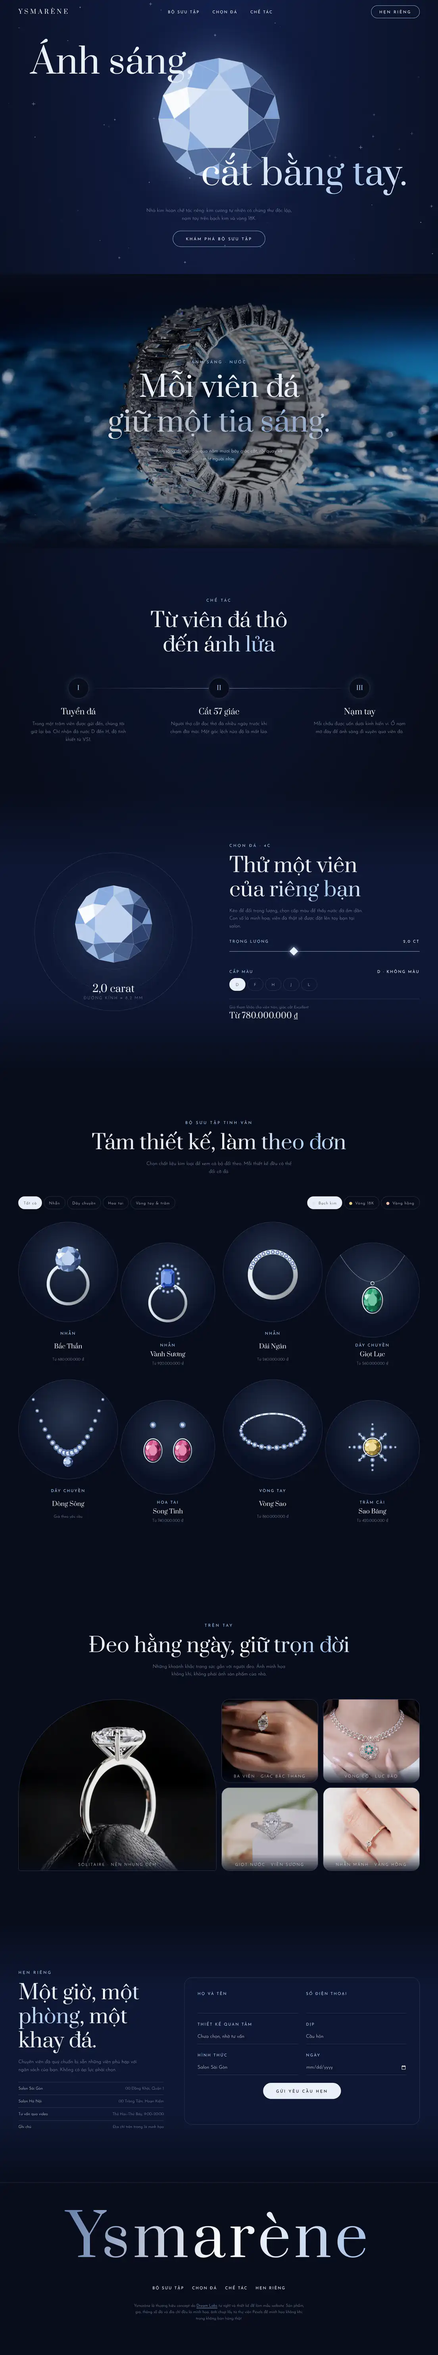
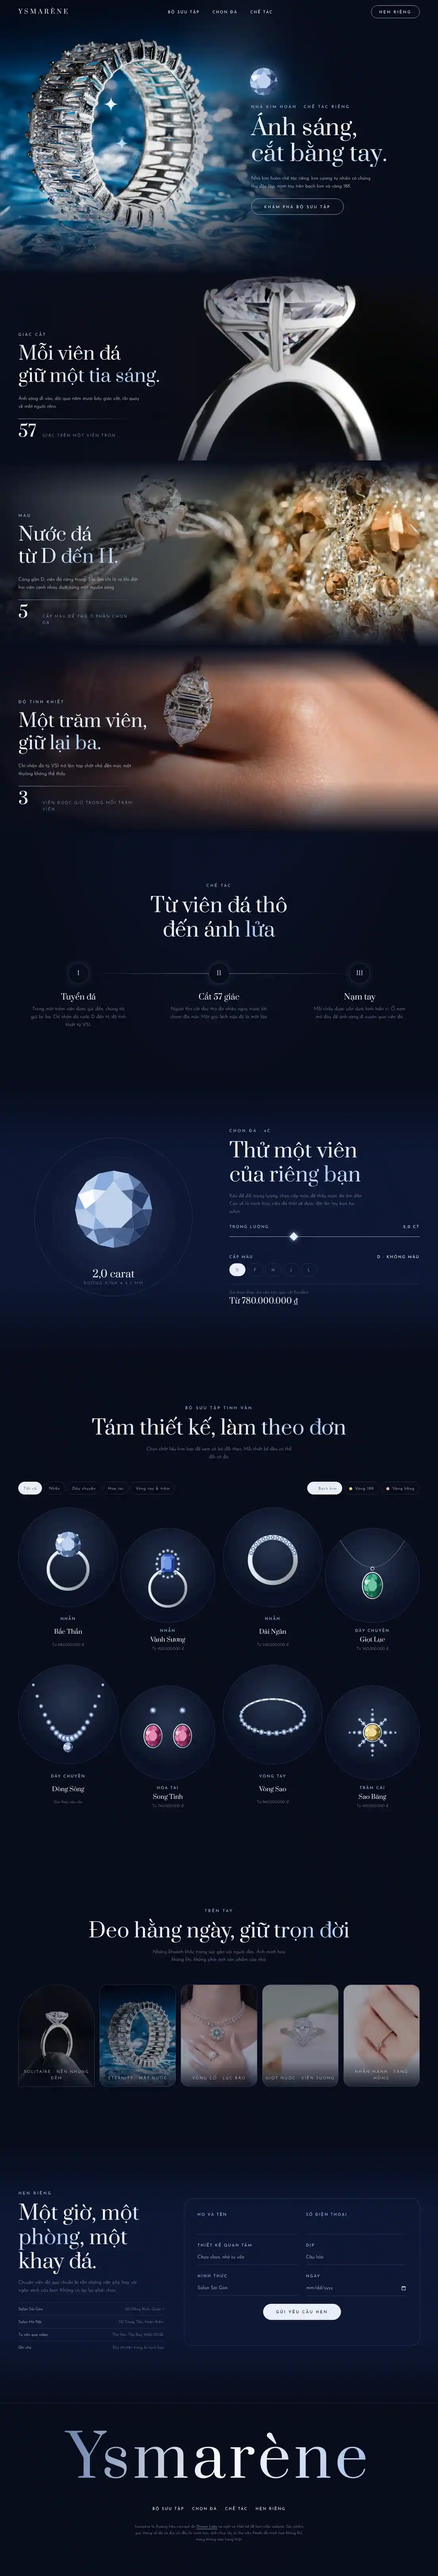
Demo Ysmarène: hero tia lấp lánh, cảnh ghim mặt nạ hình thoi, lookbook trôi có quán tính
Claude-Session: https://claude.ai/code/session_012QLWn7rvRysGvRwdv6upwG

diff --git a/demos/lux-ysmarene.html b/demos/lux-ysmarene.html
@@ -41,14 +41,6 @@ input,select,textarea{font:inherit;color:inherit;border-radius:0}
 .qv-x{position:absolute;z-index:3;width:42px;height:42px;display:grid;place-items:center;font-size:26px;line-height:1}
 .toast{position:fixed;left:50%;bottom:26px;z-index:130;transform:translate(-50%,26px);opacity:0;pointer-events:none;transition:opacity 424ms var(--ease),transform 424ms var(--ease);max-width:calc(100vw - 32px);padding:10px 26px;font-size:13px;text-align:center}
 .toast.on{opacity:1;transform:translate(-50%,0)}
-.ph{position:relative;overflow:hidden;margin:0;background:var(--bg2)}
-.ph img{display:block;width:100%;height:100%;object-fit:cover;transition:transform 1796ms var(--ease),filter 1110ms var(--ease)}
-.pe{position:relative;overflow:hidden}.pe>.ph{position:absolute;inset:0}.pe>.ph img{position:absolute;left:0;top:-9%;height:118%}
-.pg-g{display:grid;grid-template-columns:repeat(4,1fr);grid-auto-rows:clamp(160px,19vw,300px);gap:10px}
-.pg-g .ph:first-child{grid-column:span 2;grid-row:span 2}.pg-4 .ph:nth-child(2){grid-column:span 2}
-.pg-g .ph:hover img{transform:scale(1.05)}
-.pg-g figcaption{position:absolute;left:0;right:0;bottom:0;padding:26px 16px 10px;font-size:13px;line-height:1.38;pointer-events:none}
-@media(max-width:700px){.pg-g{grid-template-columns:1fr 1fr;grid-auto-rows:clamp(150px,52vw,260px);gap:6px}.pg-g .ph:first-child{grid-row:span 1}.pg-4 .ph:nth-child(2){grid-column:span 1}.pg-4 .ph:last-child{grid-column:span 2}}
 .back{position:fixed;left:16px;bottom:16px;z-index:60;min-height:42px;padding:0 16px;display:flex;align-items:center;font-size:13px;letter-spacing:.04em}
 .fm{min-height:26px;font-size:13px}
 @media (prefers-reduced-motion:reduce){.js [data-r],.js [data-r=lines] .ln>span{opacity:1!important;transform:none!important;clip-path:none!important;transition:none!important}*,*::before,*::after{animation-duration:.01ms!important;animation-delay:0s!important;animation-iteration-count:1!important;transition-duration:.01ms!important;transition-delay:0s!important;scroll-behavior:auto!important}}
@@ -84,25 +76,41 @@ h1,h2{font-family:var(--fd);line-height:1.2}h2{font-size:clamp(33px,4.6vw,68px)}
 @media(max-width:900px){.hd nav,.hd .bt{display:none}.mb{display:inline-flex}.lg{font-size:16px}}
 /* đá */
 .tw{animation:tw 4.2s ease-in-out infinite alternate}@keyframes tw{0%,62%{opacity:1}100%{opacity:.42}}
-.off .tw,.off .spin{animation-play-state:paused}
+.off .tw,.off .spin,.off .hk,.off .hs{animation-play-state:paused}
 /* hero */
-.hero{position:relative;min-height:100svh;display:grid;place-items:center;overflow:hidden;padding:94px 0 42px;text-align:center}
-.hero canvas{position:absolute;inset:0;width:100%;height:100%}
-.hc{position:relative;display:grid;justify-items:center;width:100%}
-.hero .h1{font-family:var(--fd);font-size:clamp(42px,8vw,128px);line-height:1.14;position:relative;z-index:2;width:100%;animation:up 2s .3s var(--ease) both;pointer-events:none;padding:0 max(16px,7vw)}
-.hero .h1.a{text-align:left}.hero .h1.b{text-align:right;animation-delay:.6s}.h1 i{font-style:normal;background:linear-gradient(100deg,#fff 0,var(--acc) 38%,#fff 62%,var(--acc) 100%) 0 0/200% 100%;-webkit-background-clip:text;background-clip:text;color:transparent;animation:shm 6.8s linear infinite}
+.hero{position:relative;min-height:100svh;display:grid;align-items:center;overflow:hidden;padding:94px 0 68px}
+.hb{position:absolute;inset:-3% auto -3% -24%;width:100%;will-change:transform}
+.hb>div,.hk{position:absolute;inset:0}
+.hk{transform-origin:50% 52%;animation:kb 26s ease-in-out infinite alternate}
+@keyframes kb{from{transform:scale(1.07)}to{transform:scale(1)}}
+.hk img{width:100%;height:100%;object-fit:cover}
+.hk canvas{position:absolute;inset:0;width:100%;height:100%}
+.hs{position:absolute;inset:0 -60%;background:linear-gradient(105deg,transparent 43%,rgba(190,225,255,.22) 50%,transparent 57%);mix-blend-mode:screen;animation:cs 11s ease-in-out infinite;pointer-events:none}
+@keyframes cs{0%{transform:translateX(-45%)}62%,100%{transform:translateX(45%)}}
+.hero::after{content:"";position:absolute;inset:0;background:linear-gradient(90deg,transparent 40%,rgba(8,13,28,.92) 68%,var(--bg) 76%),linear-gradient(180deg,rgba(8,13,28,.72),transparent 24%,transparent 70%,var(--bg));pointer-events:none}
+.hc{position:relative;z-index:2;display:grid;grid-template-columns:1fr min(42%,560px);justify-items:start;text-align:left}
+.hc>*{grid-column:2}
+.hero .h1{font-family:var(--fd);font-size:clamp(42px,5.2vw,88px);line-height:1.14;white-space:nowrap;pointer-events:none}
+.h1 i{font-style:normal;background:linear-gradient(100deg,#fff 0,var(--acc) 38%,#fff 62%,var(--acc) 100%) 0 0/200% 100%;-webkit-background-clip:text;background-clip:text;color:transparent;animation:shm 6.8s linear infinite}
+.h1 .c{display:inline-block;animation:ch 1.5s calc(.5s + var(--c)*52ms) var(--ease) both}
+.h1.sp i{background:none;animation:none}.h1 i .c{background:linear-gradient(120deg,#fff,var(--acc));-webkit-background-clip:text;background-clip:text}
+@keyframes ch{from{opacity:0;transform:translateY(.46em) rotate(5deg)}to{opacity:1;transform:none}}
 @keyframes up{from{opacity:0;transform:translateY(26px)}to{opacity:1;transform:none}}
-.hgem{width:min(46vh,424px,72vw);aspect-ratio:1;margin:-10vh 0;animation:gi 2.9s var(--ease) both;filter:drop-shadow(0 0 68px rgba(134,169,220,.5))}
+.hgem{width:94px;aspect-ratio:1;margin:0 0 26px -6px;animation:gi 2.9s var(--ease) both;filter:drop-shadow(0 0 26px rgba(134,169,220,.6))}
 @keyframes gi{from{opacity:0;transform:scale(.62) rotate(-42deg)}to{opacity:1;transform:none}}
 .hgem svg{width:100%;height:100%;overflow:visible;animation:fl 6.8s ease-in-out infinite alternate}
-@keyframes fl{to{transform:translateY(-16px)}}
+@keyframes fl{to{transform:translateY(-10px)}}
 .spin{transform-box:fill-box;transform-origin:center;animation:sp 110s linear infinite}@keyframes sp{to{transform:rotate(360deg)}}
-.hf{display:grid;gap:26px;justify-items:center;margin-top:42px;animation:up 2s .9s var(--ease) both;padding:0 16px}
-.hf p{color:var(--mut);max-width:30em}
-@media(max-width:700px){.hgem{margin:-26px 0}}
+.hero .k{margin-bottom:16px;animation:up 2s .3s var(--ease) both}
+.hf{display:grid;gap:26px;justify-items:start;margin-top:26px;animation:up 2s 1.5s var(--ease) both}
+.hf p{color:var(--ink);max-width:26em}
+@media(max-width:900px){.hero{align-items:end;padding-bottom:94px}.hb{inset:0 auto auto -3%;width:106%;height:66svh}
+.hero::after{background:linear-gradient(180deg,rgba(8,13,28,.6),transparent 16%,transparent 34%,rgba(8,13,28,.86) 56%,var(--bg) 66%)}
+.hc{grid-template-columns:1fr;justify-items:center;text-align:center}.hc>*{grid-column:1}.hgem{width:56px;margin:0 0 10px}.hf{justify-items:center}}
 /* câu chuyện */
 .st3{display:grid;gap:42px;position:relative}
 @media(min-width:900px){.st3{grid-template-columns:repeat(3,1fr);gap:68px}.st3::before{content:"";position:absolute;left:16.6%;right:16.6%;top:34px;height:1px;background:linear-gradient(90deg,transparent,var(--acc),transparent)}}
+.js .st3[data-r]{opacity:1;transform:none}.js .st3::before{transform:scaleX(0);transition:transform 2.2s .2s var(--ease)}.js .st3.in::before{transform:none}
 .st3 li{text-align:center;display:grid;gap:10px;justify-items:center;align-content:start}
 .st3 b{width:68px;height:68px;border-radius:50%;border:1px solid var(--line);display:grid;place-items:center;font:400 20px var(--fd);color:var(--acc);background:var(--bg);position:relative;margin-bottom:16px;box-shadow:0 0 26px rgba(169,200,240,.16)}
 .st3 h3{font:400 26px var(--fd)}.st3 p{color:var(--mut);max-width:20em}
@@ -173,22 +181,45 @@ footer{padding:68px 0 110px;text-align:center;border-top:1px solid var(--line);o
 .toast{background:var(--ink);color:var(--bg);border-radius:99px}
 .back{border-radius:99px;border:1px solid var(--line);background:rgba(8,13,28,.72);backdrop-filter:blur(10px);color:var(--acc)}
 /*PH-CSS*/
-.pe{height:clamp(520px,100svh,960px);display:grid;align-items:center;text-align:center}
-.pe>.ph{background:var(--bg)}
-.pe>.ph img{object-position:50% 50%;filter:saturate(.8) hue-rotate(6deg) brightness(.82) contrast(1.08)}
-.pe::after{content:"";position:absolute;inset:0;background:radial-gradient(ellipse 62% 54% at 50% 50%,rgba(8,13,28,.62),transparent 80%),linear-gradient(180deg,var(--bg) 0,transparent 26%,transparent 74%,var(--bg) 100%);pointer-events:none}
-.pe-t{position:relative;z-index:2;display:grid;justify-items:center}
-.pe-t h2{font-size:clamp(42px,6.6vw,96px);text-shadow:0 0 42px rgba(8,13,28,.8)}
-.pe-c{color:var(--ink);max-width:28em;margin-top:26px;text-shadow:0 0 16px rgba(8,13,28,.9)}
-.pg-g{gap:16px}
-.pg-g .ph{border-radius:26px;border:1px solid var(--line);transition:box-shadow 1110ms var(--ease)}
-.pg-g .ph:first-child{border-radius:999px 999px 26px 26px}
-.pg-g img{filter:saturate(.84) brightness(.9) contrast(1.04)}
-.pg-g .ph:hover{box-shadow:0 0 68px rgba(134,169,220,.3)}
-.pg-g .ph:hover img{filter:none}
-.pg-g .ph:nth-child(3) img{object-position:50% 30%}.pg-g .ph:nth-child(5) img{object-position:50% 46%}
-.pg-g figcaption{text-align:center;font-size:13px;letter-spacing:.2em;text-transform:uppercase;color:var(--ink);background:linear-gradient(0deg,rgba(8,13,28,.86),transparent)}
-@media(max-width:700px){.pg-g figcaption{font-size:10px;letter-spacing:.12em;padding:26px 10px 10px}.pe::after{background:linear-gradient(180deg,var(--bg) 0,rgba(8,13,28,.5) 26%,rgba(8,13,28,.72) 50%,rgba(8,13,28,.5) 74%,var(--bg) 100%)}}
+.gx-c{position:relative;min-height:68svh;display:grid;align-items:end;overflow:hidden}
+.gx-c figure{position:absolute;inset:0;margin:0;overflow:hidden}
+.gx-c img{width:100%;height:100%;object-fit:cover;object-position:var(--o,50% 50%)}
+.gx-c figure::after{content:"";position:absolute;inset:0;background:linear-gradient(90deg,rgba(8,13,28,.9),rgba(8,13,28,.5) 34%,transparent 62%),linear-gradient(180deg,var(--bg),transparent 20%,transparent 72%,var(--bg))}
+.gx-t{position:relative;z-index:2;padding-top:110px;padding-bottom:68px}
+.gx-t h2{font-size:clamp(33px,4.2vw,66px);margin:16px 0 26px}
+.gx-t>p:not(.k){max-width:25em}
+.gx-n{display:flex;align-items:baseline;gap:16px;margin-top:26px;padding-top:16px;position:relative;font-size:13px;letter-spacing:.2em;text-transform:uppercase;color:var(--acc);max-width:30em!important}
+.gx-n::before{content:"";position:absolute;left:0;top:0;width:100%;height:1px;background:linear-gradient(90deg,var(--acc),transparent);transform-origin:0 0}
+.gx-n b{font:400 53px/1 var(--fd);color:var(--ink);letter-spacing:0;min-width:1.2em}
+.gx-e,.gx-k{display:none}
+.mo .gx{height:260svh}
+.mo .gx-s{position:sticky;top:0;height:100svh;overflow:hidden}
+.mo .gx-c{position:absolute;inset:0;min-height:0}
+.mo .gx-c figure,.mo .gx-c img{will-change:transform,clip-path}
+.mo .gx-c+.gx-c figure{clip-path:polygon(50% 50%,50% 50%,50% 50%,50% 50%)}
+.mo .gx-t{opacity:0;transform:translateY(26px);pointer-events:none;transition:opacity .7s var(--ease),transform .9s var(--ease)}
+.mo .on .gx-t{opacity:1;transform:none;pointer-events:auto;transition:opacity 1.2s .3s var(--ease),transform 1.4s .3s var(--ease)}
+.mo .gx-n::before{transform:scaleX(0);transition:transform 1.8s .5s var(--ease)}.mo .on .gx-n::before{transform:none}
+.mo .gx-e{display:block;position:absolute;inset:0;width:100%;height:100%;z-index:1;opacity:0;pointer-events:none;overflow:visible}
+.mo .gx-k{display:block;position:absolute;z-index:2;right:max(16px,4.2vw);bottom:26px;font-size:13px;letter-spacing:.2em;text-transform:uppercase;color:var(--ink);min-height:1.6em}
+.mo .gx-k::after{content:"";display:inline-block;width:1px;height:1em;margin-left:6px;vertical-align:-2px;background:var(--acc);animation:tw .6s steps(2) infinite alternate}
+.lb{overflow:hidden}
+.lb-t{position:relative;display:flex;gap:16px;overflow-x:auto;scroll-snap-type:x mandatory;padding:0 max(16px,4.2vw) 16px;scrollbar-width:none}
+.lb-t::-webkit-scrollbar{display:none}
+.lc{position:relative;flex:0 0 74vw;aspect-ratio:3/4;margin:0;border-radius:26px;overflow:hidden;border:1px solid var(--line);scroll-snap-align:center;background:var(--bg2)}
+.lc:first-child{border-radius:999px 999px 26px 26px}
+.lc img{width:100%;height:100%;object-fit:cover;-webkit-user-drag:none;transform:scale(1.02);transition:transform 1.8s var(--ease)}
+.lc::before{content:"";position:absolute;inset:0;z-index:1;background:rgba(8,13,28,.4);transition:opacity 1.1s var(--ease)}
+.lc::after{content:"";position:absolute;inset:-20% -70%;z-index:1;background:linear-gradient(105deg,transparent 45%,rgba(255,255,255,.3) 50%,transparent 55%);transform:translateX(-62%);transition:transform 1.5s var(--ease);pointer-events:none}
+.lc:hover::before,.lc.on::before{opacity:0}.lc:hover::after,.lc.on::after{transform:translateX(62%)}.lc:hover img,.lc.on img{transform:scale(1.08)}
+.lc figcaption{position:absolute;z-index:2;left:0;right:0;bottom:0;padding:42px 10px 16px;text-align:center;font-size:13px;letter-spacing:.2em;text-transform:uppercase;background:linear-gradient(0deg,rgba(8,13,28,.86),transparent);pointer-events:none}
+.lb-h{display:none}
+@media(min-width:900px){.lb-t{display:grid;grid-template-columns:repeat(5,1fr);overflow:visible}}
+@media(max-width:899px){.lb-h{display:block;text-align:center;font-size:13px;letter-spacing:.2em;text-transform:uppercase;color:var(--mut);margin-top:10px}}
+@media(max-width:899px){.gx-c figure{bottom:38%}.gx-c figure::after{background:linear-gradient(180deg,var(--bg),transparent 18%,transparent 52%,var(--bg) 97%)}.gx-e{height:62%!important}html:not(.mo) .gx-c{display:block;min-height:0}html:not(.mo) .gx-c figure{position:relative;inset:auto;height:52svh}html:not(.mo) .gx-t{padding-top:16px;padding-bottom:42px}.gx-t{padding-bottom:78px}.gx-t h2{margin:10px 0 16px}.gx-n{margin-top:16px}.mo .gx-k{top:78px;bottom:auto;left:16px;right:auto;letter-spacing:.1em;white-space:nowrap}}
+@media(min-width:900px){.gx-c:first-child figure{transform-origin:0 34%;transform:scale(1.26)}}
+.dg .lb-t{display:flex;width:max-content;gap:3vw;align-items:center;padding-block:42px 68px;cursor:grab;touch-action:pan-y;user-select:none;-webkit-user-select:none;will-change:transform}
+.dg .lc{flex:0 0 calc(var(--w)*1vw);aspect-ratio:var(--a);will-change:transform}
 /*/PH-CSS*/
 </style>
 </head>
@@ -205,11 +236,13 @@ footer{padding:68px 0 110px;text-align:center;border-top:1px solid var(--line);o
 
 <main>
 <section class="hero" id="top">
- <canvas id="sky" aria-hidden="true"></canvas>
- <div class="hc">
+ <div class="hb" id="hb"><div data-px=".16"><div class="hk"><img src="../img/photo/trang-suc-30852409-xl.webp" width="2400" height="1600" alt="Chiếc nhẫn eternity nạm đá baguette đứng trên mặt nước gợn sóng dưới ánh sáng xanh lam" decoding="async" fetchpriority="high"><canvas id="sky" aria-hidden="true"></canvas></div></div></div>
+ <i class="hs" aria-hidden="true"></i>
+ <div class="hc w">
+  <div class="hgem" id="hgem"></div>
+  <p class="k">Nhà kim hoàn · Chế tác riêng</p>
   <h1 class="vh">Ánh sáng, cắt bằng tay.</h1>
   <p class="h1 a" aria-hidden="true">Ánh sáng,</p>
-  <div class="hgem" id="hgem" data-px=".06"></div>
   <p class="h1 b" aria-hidden="true"><i>cắt bằng tay.</i></p>
   <div class="hf"><p>Nhà kim hoàn chế tác riêng: kim cương tự nhiên có chứng thư độc lập, nạm tay trên bạch kim và vàng 18K.</p><a class="bt" href="#bo-suu-tap">Khám phá bộ sưu tập</a></div>
  </div>
@@ -217,12 +250,17 @@ footer{padding:68px 0 110px;text-align:center;border-top:1px solid var(--line);o
 
 
 <!--PH-ED-->
-<section class="pe" aria-label="Ảnh không khí của nhà Ysmarène"><figure class="ph" data-r="mask"><img src="../img/photo/trang-suc-30852409.webp" width="1600" height="1067" alt="Chiếc nhẫn eternity nạm đá baguette đứng trên mặt nước gợn sóng dưới ánh sáng xanh lam" decoding="async" loading="lazy" data-px=".12"></figure><div class="pe-t w"><p class="k" data-r>Ánh sáng · Nước</p><h2 data-r style="margin-top:16px">Mỗi viên đá<br><i>giữ một tia sáng.</i></h2><p class="pe-c" data-r>Ánh sáng đi vào, dội qua năm mươi bảy giác cắt, rồi quay về mắt người nhìn.</p></div></section>
+<section class="gx" id="giac" aria-label="Ánh sáng và giác cắt"><div class="gx-s">
+<article class="gx-c" data-cap="01 / 03 · Solitaire trên nền nhung đêm"><figure><img src="../img/photo/trang-suc-9953654.webp" width="1280" height="1600" alt="Nhẫn solitaire kim cương bốn chấu cài trên nếp da đen, nền tối" decoding="async" loading="lazy" style="--o:50% 36%"></figure><div class="gx-t w"><p class="k">Giác cắt</p><h2>Mỗi viên đá<br><i>giữ một tia sáng.</i></h2><p>Ánh sáng đi vào, dội qua năm mươi bảy giác cắt, rồi quay về mắt người nhìn.</p><p class="gx-n"><b data-n="57">57</b>giác trên một viên tròn</p></div></article>
+<article class="gx-c" data-cap="02 / 03 · Nhẫn xoắn giữa pha lê hổ phách"><figure><img src="../img/photo/trang-suc-9420694.webp" width="1600" height="1067" alt="Nhẫn kim cương thân xoắn nằm giữa những hạt pha lê màu hổ phách" decoding="async" loading="lazy" style="--o:42% 50%"></figure><div class="gx-t w"><p class="k">Màu</p><h2>Nước đá<br><i>từ D đến H.</i></h2><p>Càng gần D, viên đá càng trong. Sắc ấm chỉ lộ ra khi đặt hai viên cạnh nhau dưới cùng một nguồn sáng.</p><p class="gx-n"><b data-n="5">5</b>cấp màu để thử ở phần Chọn đá</p></div></article>
+<article class="gx-c" data-cap="03 / 03 · Ba viên giác bậc thang trên tay"><figure><img src="../img/photo/trang-suc-32652451.webp" width="1600" height="1600" alt="Bàn tay đeo nhẫn kim cương giác baguette trên nền tối" decoding="async" loading="lazy" style="--o:60% 30%"></figure><div class="gx-t w"><p class="k">Độ tinh khiết</p><h2>Một trăm viên,<br><i>giữ lại ba.</i></h2><p>Chỉ nhận đá từ VS1 trở lên: tạp chất nhỏ đến mức mắt thường không thể thấy.</p><p class="gx-n"><b data-n="3">3</b>viên được giữ trong mỗi trăm viên</p></div></article>
+<svg class="gx-e" viewBox="0 0 100 100" preserveAspectRatio="none" aria-hidden="true"><path d="M50 0L100 50 50 100 0 50z" fill="none" stroke="#cfe1fb" vector-effect="non-scaling-stroke"/></svg><p class="gx-k" id="fcc" aria-hidden="true"></p>
+</div></section>
 <!--/PH-ED-->
 
 <section class="sec" id="che-tac"><div class="w">
  <div class="hdg"><p class="k" data-r>Chế tác</p><h2 data-r>Từ viên đá thô<br>đến <i>ánh lửa</i></h2></div>
- <ol class="st3">
+ <ol class="st3" data-r>
   <li data-r><b>I</b><h3>Tuyển đá</h3><p>Trong một trăm viên được gửi đến, chúng tôi giữ lại ba. Chỉ nhận đá nước D đến H, độ tinh khiết từ VS1.</p></li>
   <li data-r style="--i:1"><b>II</b><h3>Cắt 57 giác</h3><p>Người thợ cắt đọc thớ đá nhiều ngày trước khi chạm đĩa mài. Một góc lệch nửa độ là mất lửa.</p></li>
   <li data-r style="--i:2"><b>III</b><h3>Nạm tay</h3><p>Mỗi chấu được uốn dưới kính hiển vi. Ổ nạm mở đáy để ánh sáng đi xuyên qua viên đá.</p></li>
@@ -248,7 +286,7 @@ footer{padding:68px 0 110px;text-align:center;border-top:1px solid var(--line);o
 
 
 <!--PH-LB-->
-<section class="sec pg" id="tren-tay"><div class="w"><div class="hdg"><p class="k" data-r>Trên tay</p><h2 data-r>Đeo hằng ngày, <i>giữ trọn đời</i></h2><p class="t" data-r>Những khoảnh khắc trang sức gắn với người đeo. Ảnh minh họa không khí, không phải ảnh sản phẩm của nhà.</p></div><div class="pg-g pg-5"><figure class="ph" data-r="mask" style="--i:0"><img src="../img/photo/trang-suc-9953654.webp" width="1280" height="1600" alt="Nhẫn solitaire kim cương bốn chấu cài trên nếp da đen, nền tối" decoding="async" loading="lazy"><figcaption>Solitaire · Nền nhung đêm</figcaption></figure><figure class="ph" data-r="mask" style="--i:1"><img src="../img/photo/trang-suc-32652451.webp" width="1600" height="1600" alt="Bàn tay đeo nhẫn kim cương giác baguette trên nền tối" decoding="async" loading="lazy"><figcaption>Ba viên · Giác bậc thang</figcaption></figure><figure class="ph" data-r="mask" style="--i:2"><img src="../img/photo/trang-suc-19646999.webp" width="1067" height="1600" alt="Người mẫu đeo vòng cổ kim cương có mặt đá xanh lục và nhẫn xoắn" decoding="async" loading="lazy"><figcaption>Vòng cổ · Lục bảo</figcaption></figure><figure class="ph" data-r="mask" style="--i:3"><img src="../img/photo/trang-suc-16438530.webp" width="1600" height="1600" alt="Nhẫn kim cương giọt nước viền đá tấm hình chữ V đặt trên khối trắng" decoding="async" loading="lazy"><figcaption>Giọt nước · Viền sương</figcaption></figure><figure class="ph" data-r="mask" style="--i:4"><img src="../img/photo/trang-suc-36119440.webp" width="900" height="1600" alt="Bàn tay đeo chiếc nhẫn vàng hồng mảnh với một viên kim cương nhỏ" decoding="async" loading="lazy"><figcaption>Nhẫn mảnh · Vàng hồng</figcaption></figure></div></div></section>
+<section class="sec lb" id="tren-tay"><div class="w"><div class="hdg"><p class="k" data-r>Trên tay</p><h2 data-r>Đeo hằng ngày, <i>giữ trọn đời</i></h2><p class="t" data-r>Những khoảnh khắc trang sức gắn với người đeo. Ảnh minh họa không khí, không phải ảnh sản phẩm của nhà.</p></div></div><div class="lb-t" data-c="Kéo"><figure class="lc" style="--w:25;--a:4/5"><img src="../img/photo/trang-suc-9953654.webp" width="1280" height="1600" alt="Nhẫn solitaire kim cương bốn chấu cài trên nếp da đen, nền tối" decoding="async" loading="lazy" draggable="false"><figcaption>Solitaire · Nền nhung đêm</figcaption></figure><figure class="lc" style="--w:35;--a:3/2"><img src="../img/photo/trang-suc-30852409.webp" width="1600" height="1067" alt="Chiếc nhẫn eternity nạm đá baguette đứng trên mặt nước xanh" decoding="async" loading="lazy" draggable="false"><figcaption>Eternity · Mặt nước</figcaption></figure><figure class="lc" style="--w:22;--a:2/3"><img src="../img/photo/trang-suc-19646999.webp" width="1067" height="1600" alt="Người mẫu đeo vòng cổ kim cương có mặt đá xanh lục và nhẫn xoắn" decoding="async" loading="lazy" draggable="false"><figcaption>Vòng cổ · Lục bảo</figcaption></figure><figure class="lc" style="--w:26;--a:1"><img src="../img/photo/trang-suc-16438530.webp" width="1600" height="1600" alt="Nhẫn kim cương giọt nước viền đá tấm hình chữ V đặt trên khối trắng" decoding="async" loading="lazy" draggable="false"><figcaption>Giọt nước · Viền sương</figcaption></figure><figure class="lc" style="--w:19;--a:9/16"><img src="../img/photo/trang-suc-36119440.webp" width="900" height="1600" alt="Bàn tay đeo chiếc nhẫn vàng hồng mảnh với một viên kim cương nhỏ" decoding="async" loading="lazy" draggable="false"><figcaption>Nhẫn mảnh · Vàng hồng</figcaption></figure></div><p class="lb-h" aria-hidden="true">Vuốt ngang để xem</p></section>
 <!--/PH-LB-->
 
 <section class="sec c4" id="hen"><div class="w bk">
@@ -351,11 +389,40 @@ const J=[
  {n:'Sao Băng',t:'Trâm cài',g:'Vòng tay & trâm',p:42e7,c:['1,6 ct','Fancy yellow','VS1','Brilliant'],d:'Trâm cài tám tia quanh một viên kim cương vàng. Cài ve áo hoặc búi tóc.'}];
 /* hero */
 const hg=$('#hgem');hg.innerHTML=`<svg viewBox="-104 -104 208 208" role="img" aria-label="Viên kim cương giác tròn nhìn từ trên xuống"><g class="spin"><circle r="102" fill="none"/>${gem('br','d',100,1)}</g></svg>`;
-const sky=$('#sky'),hero=$('.hero');let sx,pts=[],run=0;
-const fit=()=>{const d=Math.min(devicePixelRatio||1,1.5);sky.width=hero.clientWidth*d;sky.height=hero.clientHeight*d;sx=sky.getContext('2d');sx.setTransform(d,0,0,d,0,0);pts=Array.from({length:Math.round(hero.clientWidth/22)},(_,i)=>({x:rnd(i,1)*hero.clientWidth,y:rnd(i,2)*hero.clientHeight,r:1+rnd(i,3)*4.2,p:rnd(i,4)*6.28,s:.4+rnd(i,5)*1.2}))};
-const draw=t=>{sx.clearRect(0,0,sky.width,sky.height);pts.forEach(p=>{const a=.5+.5*Math.sin(p.p+t*.001*p.s);sx.globalAlpha=a*.9;sx.strokeStyle='#cfe1fb';sx.lineWidth=.8;const r=p.r*(.6+a*.6);sx.beginPath();sx.moveTo(p.x-r,p.y);sx.lineTo(p.x+r,p.y);sx.moveTo(p.x,p.y-r);sx.lineTo(p.x,p.y+r);sx.stroke()});if(run)requestAnimationFrame(draw)};
-fit();draw(0);addEventListener('resize',()=>{fit();run||draw(0)});
+$$('.hero .h1').forEach((p,k)=>{let n=k*9;const w=e=>[...e.childNodes].forEach(c=>{if(c.nodeType===3){const f=D.createDocumentFragment();[...c.data].forEach(ch=>{if(ch===' ')return f.append(' ');const s=D.createElement('span');s.className='c';s.style.setProperty('--c',n++);s.textContent=ch;f.append(s)});c.replaceWith(f)}else w(c)});w(p);p.classList.add('sp')});
+const sky=$('#sky'),hero=$('.hero'),hb=$('#hb'),hc=$('.hc');let sx,W,Hc,pts=[],run=0,mx=0,my=0,ax=0,ay=0;
+const fit=()=>{const d=Math.min(devicePixelRatio||1,1.5);W=sky.clientWidth;Hc=sky.clientHeight;sky.width=W*d;sky.height=Hc*d;sx=sky.getContext('2d');sx.setTransform(d,0,0,d,0,0);
+ const s=Math.max(W/3,Hc/2),ox=(W-3*s)/2,oy=(Hc-2*s)/2,n=W<700?9:16;
+ pts=Array.from({length:n},(_,i)=>{const g=i<n*.6;return{x:ox+3*s*(g?.33+rnd(i,1)*.36:rnd(i,1)),y:oy+2*s*(g?.2+rnd(i,2)*.56:.5+rnd(i,2)*.42),r:(g?9:5)+rnd(i,3)*(g?17:8),p:rnd(i,4)*6.28,s:.5+rnd(i,5)*.9}})};
+const draw=t=>{sx.clearRect(0,0,W,Hc);sx.fillStyle='#eef5ff';pts.forEach(p=>{const a=Math.pow(.5+.5*Math.sin(p.p+t*.0011*p.s),6);if(a<.02)return;const r=p.r*(.5+a*.5),k=r*.08,x=p.x,y=p.y;sx.globalAlpha=a;sx.beginPath();sx.moveTo(x-r,y);sx.quadraticCurveTo(x-k,y-k,x,y-r);sx.quadraticCurveTo(x+k,y-k,x+r,y);sx.quadraticCurveTo(x+k,y+k,x,y+r);sx.quadraticCurveTo(x-k,y+k,x-r,y);sx.fill();sx.globalAlpha=a*.3;sx.beginPath();sx.arc(x,y,r*.3,0,7);sx.fill()});
+ if(run){ax+=(mx-ax)*.05;ay+=(my-ay)*.05;hb.style.transform=`translate3d(${(-ax*20).toFixed(1)}px,${(-ay*12).toFixed(1)}px,0)`;hc.style.transform=`translate3d(${(ax*9).toFixed(1)}px,${(ay*6).toFixed(1)}px,0)`;requestAnimationFrame(draw)}};
+fit();draw(900);addEventListener('resize',()=>{fit();run||draw(900)});
+FINE&&hero.addEventListener('mousemove',e=>{mx=e.clientX/innerWidth*2-1;my=e.clientY/innerHeight*2-1},{passive:true});
 if('IntersectionObserver' in window)new IntersectionObserver(e=>{const v=e[0].isIntersecting;hero.classList.toggle('off',!v);if(v&&!run&&!RM){run=1;requestAnimationFrame(draw)}else if(!v)run=0}).observe(hero);
+/* cảnh ghim giác cắt */
+const fc=$('#giac'),IO=(el,f)=>new IntersectionObserver(e=>f(e[0].isIntersecting)).observe(el),cl=v=>Math.max(0,Math.min(1,v));
+if(fc&&!RM&&'IntersectionObserver' in window){H.classList.add('mo');const cs=$$('.gx-c',fc),fg=cs.map(c=>$('figure',c)),im=cs.map(c=>$('img',c)),ed=$('.gx-e',fc),cap=$('#fcc');let ci=-1,vis=0,pp=-1,ty;
+ const set=i=>{if(i===ci)return;ci=i;cs.forEach((c,k)=>c.classList.toggle('on',k===i));if(i<0)return;
+  const b=$('[data-n]',cs[i]);if(!b.d){b.d=1;const n=+b.dataset.n,t0=performance.now();(function f(t){const q=cl((t-t0)/1600);b.textContent=Math.round(n*(1-Math.pow(1-q,3)));q<1&&requestAnimationFrame(f)})(t0)}
+  const s=cs[i].dataset.cap;let k=0;clearInterval(ty);ty=setInterval(()=>{cap.textContent=s.slice(0,++k);k>=s.length&&clearInterval(ty)},38)};
+ const tick=()=>{if(!vis)return;const r=fc.getBoundingClientRect(),vh=innerHeight,t=cl(-r.top/(r.height-vh));pp+=(t-pp)*(pp<0?1:.16);let qe=0;
+  [1,2].forEach(i=>{let q=cl((pp-i*.4+.26)/.32);q=q*q*(3-2*q);if(q>0&&q<1)qe=q;const a=(50-q*100).toFixed(2),b=(50+q*100).toFixed(2);fg[i].style.clipPath=`polygon(50% ${a}%,${b}% 50%,50% ${b}%,${a}% 50%)`;im[i].style.transform=`scale(${(1.22-.22*q).toFixed(3)})`});
+  im[0].style.transform=`scale(${(1.1-.1*pp).toFixed(3)})`;ed.style.transform=`scale(${(2*qe).toFixed(3)})`;ed.style.opacity=cl(16*qe*(.5-qe)).toFixed(2);
+  set(r.top>vh*.5?-1:pp<.3?0:pp<.7?1:2);requestAnimationFrame(tick)};
+ IO(fc,v=>{const w=vis;vis=v;v&&!w&&requestAnimationFrame(tick)})}
+/* lookbook trôi */
+const lb=$('#tren-tay'),lt=$('.lb-t'),lcs=$$('.lc');
+if(FINE&&!RM&&'IntersectionObserver' in window){lb.classList.add('dg');let x=0,v=0,dn=0,lx=0,lm=0,vis=0,trv=0,fst=1;
+ const ms=()=>{trv=Math.max(0,lt.scrollWidth-lb.clientWidth)};ms();addEventListener('resize',ms);
+ lt.addEventListener('pointerdown',e=>{dn=1;lx=e.clientX;v=0;lt.setPointerCapture(e.pointerId);lt.style.cursor='grabbing'});
+ lt.addEventListener('pointermove',e=>{if(!dn)return;const d=e.clientX-lx;lx=e.clientX;lm=performance.now();x+=d*(x>0||x<-trv?.36:1);v=d});
+ const up=()=>{if(!dn)return;dn=0;lt.style.cursor='';if(performance.now()-lm>90)v=0};lt.addEventListener('pointerup',up);lt.addEventListener('pointercancel',up);
+ const tick=t=>{if(!vis)return;if(!dn){x+=v;v*=.955;if(x>0){x*=.86;v*=.5}else if(x<-trv){x+=(-trv-x)*.14;v*=.5}}
+  lt.style.transform=`translate3d(${x.toFixed(1)}px,0,0)`;const u=cl(Math.abs(v)/60)*Math.sign(v);
+  lcs.forEach((c,i)=>{const o=i%2?-1:1;c.style.transform=`translate3d(${(u*o*14).toFixed(1)}px,${(o*34+Math.sin(t*.0007*(1+i*.23)+i*2.1)*11).toFixed(1)}px,0) rotate(${(u*o*1.4).toFixed(2)}deg)`});
+  requestAnimationFrame(tick)};
+ IO(lb,s=>{const w=vis;vis=s;if(s&&!w){ms();if(fst){fst=0;v=-trv*.022;lcs.forEach(c=>$('img',c).loading='eager')}requestAnimationFrame(tick)}})}
+else if(!FINE){const ct=()=>{const m=lt.scrollLeft+lt.clientWidth/2;lcs.forEach(c=>c.classList.toggle('on',Math.abs(c.offsetLeft+c.offsetWidth/2-m)<c.offsetWidth/2))};lt.addEventListener('scroll',ct,{passive:true});ct()}
 /* 4C */
 const GD=[['D','không màu',['#16264f','#86a9dc','#ffffff'],1],['F','không màu',['#1a2a50','#92acd4','#ffffff'],.86],['H','gần không màu',['#262c48','#a3aec4','#fffdf6'],.68],['J','gần không màu',['#34321f','#b9b596','#fffbe6'],.52],['L','phớt vàng',['#42380f','#cdbf7c','#fff6cc'],.38]];
 let gi=0;const c4=$('#c4g'),ct=$('#ct'),gd=$('#gd'),vn=n=>n.toFixed(1).replace('.',',');
@@ -363,7 +430,8 @@ gd.innerHTML=GD.map((g,i)=>`<button data-g="${i}" class="${i?'':'on'}" aria-pres
 const c4u=re=>{const v=+ct.value,k=Math.cbrt(v/5);if(re)c4.innerHTML=gem('br',GD[gi][2],100,0);$('#c4s').style.setProperty('--k',(.42+.58*k).toFixed(3));
  $('#ctv').textContent=vn(v)+' ct';ct.setAttribute('aria-valuetext',vn(v)+' carat');$('#c4o').innerHTML=`<b>${vn(v)} carat</b>đường kính ≈ ${vn(6.5*Math.cbrt(v))} mm`;$('#gdv').textContent=GD[gi][0]+' · '+GD[gi][1];
  $('#est').textContent='Từ '+vnd(Math.round(21e7*Math.pow(v,1.9)*GD[gi][3]/1e7)*1e7)};
-c4u(1);ct.addEventListener('input',()=>c4u());
+c4u(1);let cu=0;ct.addEventListener('input',()=>{cu=1;c4u()});
+if(!RM&&'IntersectionObserver' in window){const o=new IntersectionObserver(e=>{if(!e[0].isIntersecting)return;o.disconnect();const t0=performance.now();(function f(t){if(cu)return;const q=cl((t-t0)/1800);ct.value=(.5+1.5*(1-Math.pow(1-q,4))).toFixed(1);c4u();q<1&&requestAnimationFrame(f)})(t0)},{threshold:.5});o.observe($('#c4s'))}
 gd.addEventListener('click',e=>{const b=e.target.closest('button');if(!b)return;gi=+b.dataset.g;$$('button',gd).forEach(x=>{x.classList.toggle('on',x===b);x.setAttribute('aria-pressed',x===b)});c4u(1)});
 /* bộ sưu tập */
 const gr=$('#gr'),fl=$('#fl'),mt=$('#mt'),F=['Tất cả',...new Set(J.map(j=>j.g))];
